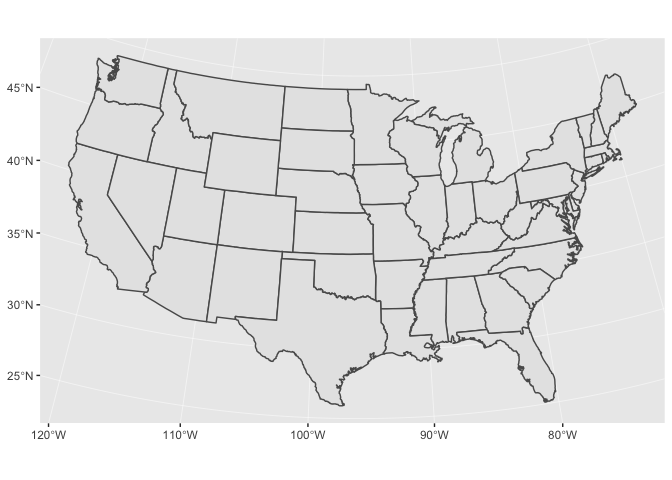
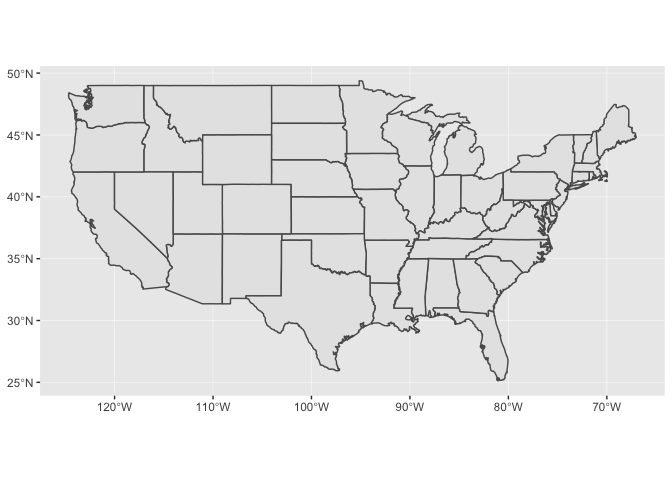
Update for week 7

diff --git a/docs/spatial-vis.md b/docs/spatial-vis.md
@@ -33,8 +33,8 @@ tweak your legends, alter the theme, etc.
 
 ## `geom_sf()`
 
-`nc_74` contains data on deaths from Sudden Infant Death Syndrome (SIDS)
-in 1974 for counties in North Carolina.
+`nc_1974` contains data on deaths from Sudden Infant Death Syndrome
+(SIDS) in 1974 for counties in North Carolina.
 
 ``` r
 nc_1974
@@ -139,9 +139,24 @@ nc_1974 %>%
 
 ## Layering
 
+`states` and `nc_1974` each has a different coordinate reference system
+(CRS).
+
+``` r
+st_crs(states)
+#> Coordinate Reference System:
+#>   EPSG: 4326 
+#>   proj4string: "+proj=longlat +datum=WGS84 +no_defs"
+
+st_crs(nc_1974)
+#> Coordinate Reference System:
+#>   EPSG: 4267 
+#>   proj4string: "+proj=longlat +datum=NAD27 +no_defs"
+```
+
 When you include multiple geospatial layers, ggplot2 will ensure that
-they all have a common coordinate reference system (CRS) so that it
-makes sense to overlay them.
+they all have a common CRS so that it makes sense to overlay them. It
+will use the CRS of the first layer for all layers.
 
 ``` r
 ggplot() +
@@ -149,7 +164,7 @@ ggplot() +
   geom_sf(data = nc_1974)
 ```
 
-![](spatial-vis_files/figure-gfm/unnamed-chunk-9-1.png)<!-- -->
+![](spatial-vis_files/figure-gfm/unnamed-chunk-10-1.png)<!-- -->
 
 In the above code, we didn’t pipe any data into `ggplot()` because each
 layer uses different data.
@@ -160,8 +175,8 @@ other geoms.
 ``` r
 raleigh <- 
   tibble(
-    x = -78.644257,
-    y = 35.787743,
+    x = -78.6382,
+    y = 35.7796,
     label = "Raleigh"
   )
 
@@ -174,7 +189,7 @@ nc_1974 %>%
   scale_fill_gradient(low = "#efedf5", high = "#756bb1")
 ```
 
-![](spatial-vis_files/figure-gfm/unnamed-chunk-10-1.png)<!-- -->
+![](spatial-vis_files/figure-gfm/unnamed-chunk-11-1.png)<!-- -->
 
 In this case, the `x` and `y` positions of the Raleigh dot are assumed
 be in the same CRS as the sf object.
@@ -200,7 +215,7 @@ You’ll need to use `coord_sf()` for two reasons:
       geom_sf()
     ```
     
-    ![](spatial-vis_files/figure-gfm/unnamed-chunk-11-1.png)<!-- -->
+    ![](spatial-vis_files/figure-gfm/unnamed-chunk-12-1.png)<!-- -->
     
     Let’s zoom in on the county with the highest rate (and also change
     the color scale).
@@ -213,7 +228,7 @@ You’ll need to use `coord_sf()` for two reasons:
       coord_sf(xlim = c(-80.5, -79), ylim = c(34.8, 36))
     ```
     
-    ![](spatial-vis_files/figure-gfm/unnamed-chunk-12-1.png)<!-- -->
+    ![](spatial-vis_files/figure-gfm/unnamed-chunk-13-1.png)<!-- -->
 
   - You can also use `coord_sf()` to override the projection in the
     data. If you don’t specify the `crs` argument to `coord_sf()`, if
@@ -237,19 +252,21 @@ You’ll need to use `coord_sf()` for two reasons:
       geom_sf()
     ```
     
-    ![](spatial-vis_files/figure-gfm/unnamed-chunk-14-1.png)<!-- -->
+    ![](spatial-vis_files/figure-gfm/unnamed-chunk-15-1.png)<!-- -->
     
     If you’re visualizing the entire US, it’s better to use the US
     Albers projection. Albers is an equal-area projection, which means
-    it accurately reflects the areas of geographic regions. The ESPG
-    code of US Albers is 102003.
+    it accurately reflects the areas of geographic regions. Below is the
+    proj.4 string for the US Albers projection.
     
     ``` r
+    US_ALBERS <- "+proj=aea +lat_1=29.5 +lat_2=45.5 +lat_0=37.5 +lon_0=-96 +x_0=0 +y_0=0 +datum=WGS84 +no_defs"
+    
     states %>% 
       ggplot() +
       geom_sf() +
-      coord_sf(crs = st_crs(102003))
+      coord_sf(crs = US_ALBERS)
     ```
     
-    ![](spatial-vis_files/figure-gfm/unnamed-chunk-15-1.png)<!-- -->
+    ![](spatial-vis_files/figure-gfm/unnamed-chunk-16-1.png)<!-- -->
 
